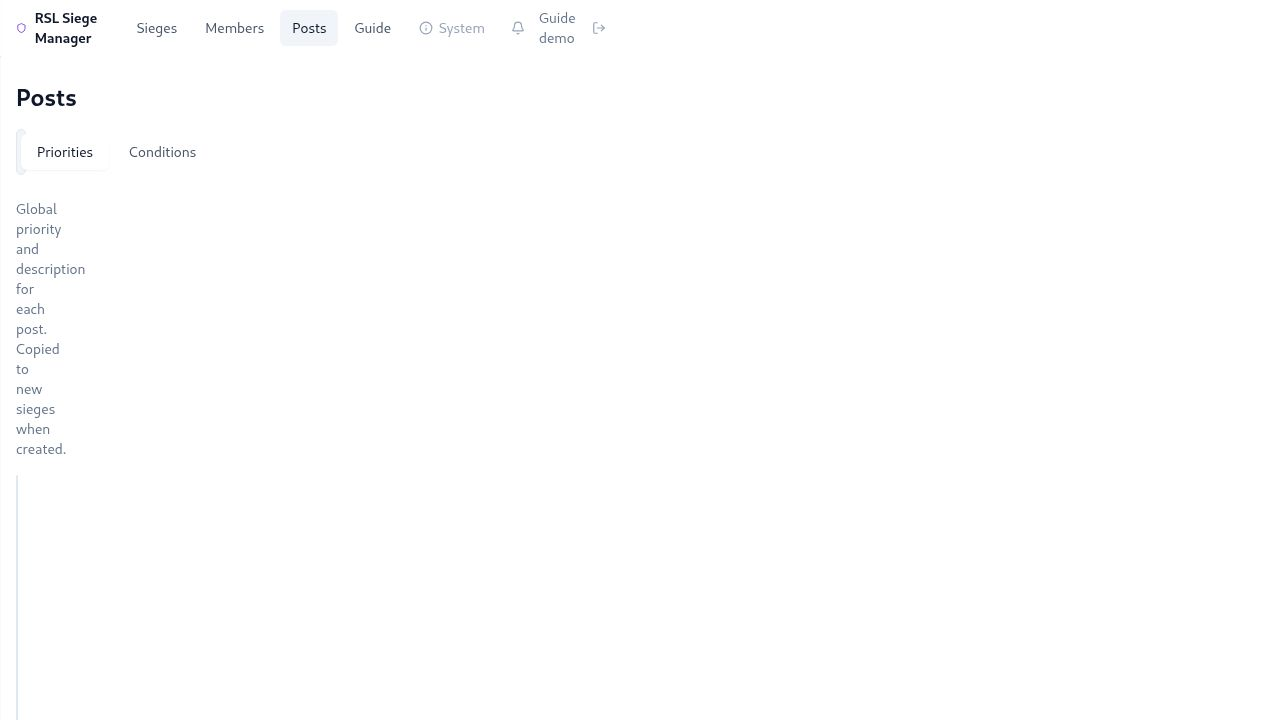
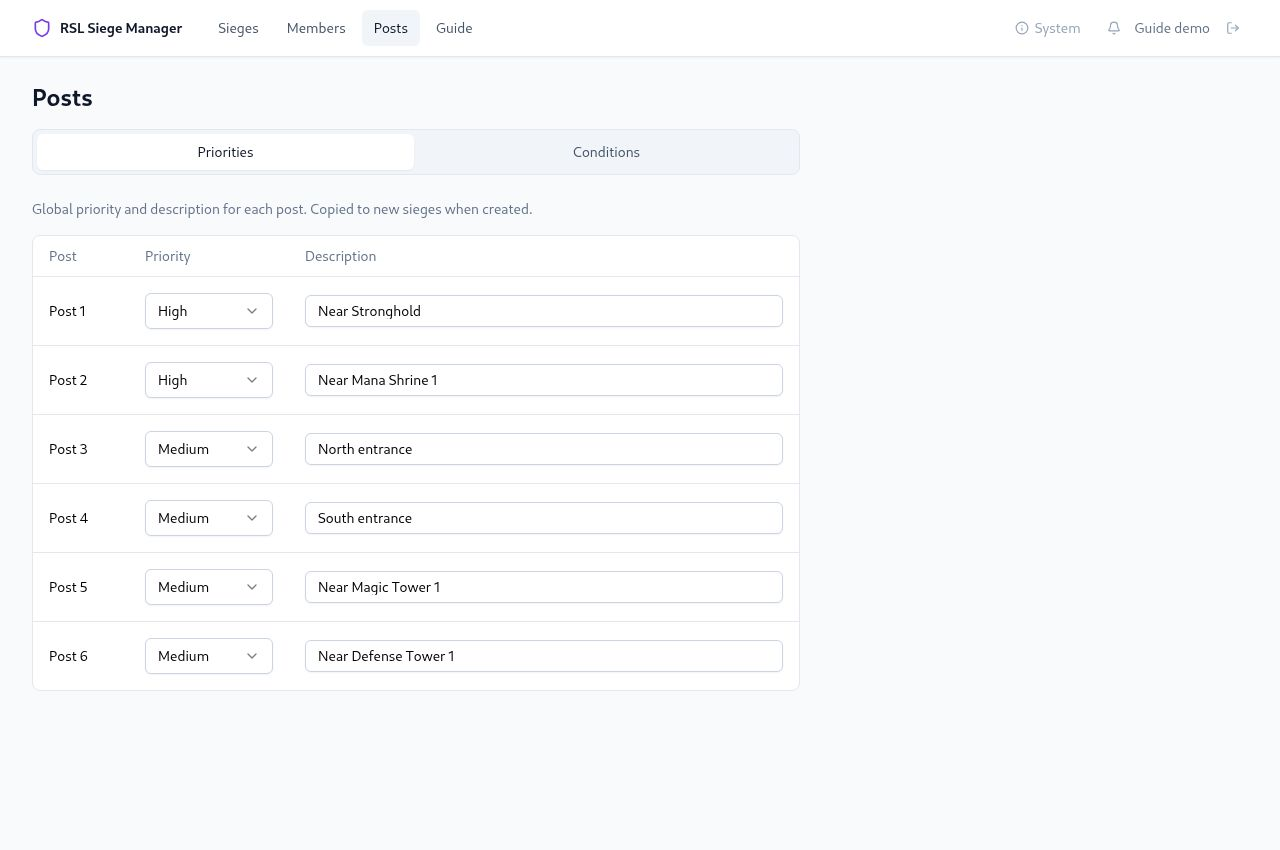
Correct the post priority guide screenshot

diff --git a/frontend/src/guides/screenshots.ts b/frontend/src/guides/screenshots.ts
@@ -129,7 +129,7 @@ export const guideScreenshots: Record<string, GuideImage[]> = {
       caption:
         "Priority changes save immediately; a description saves when you leave its field.",
       width: 1280,
-      height: 720,
+      height: 850,
     },
   ],
   compare: [
